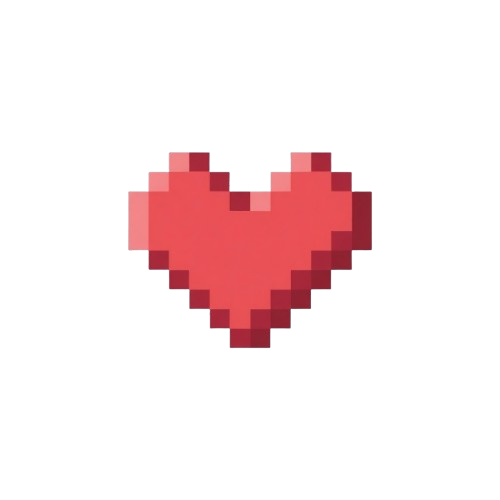
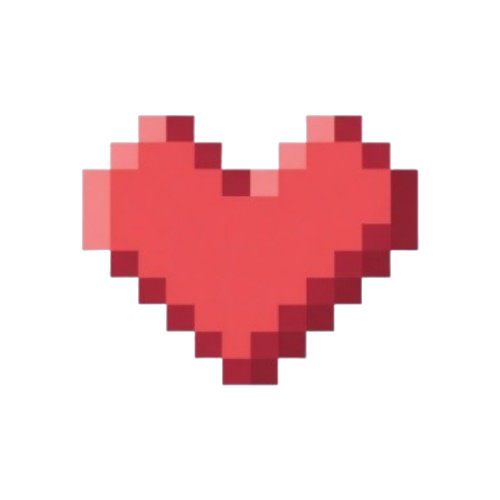
[add] いいねボタンアイコンの変更

Changed region(s): [[0.15, 0.21, 0.84, 0.78]]

diff --git a/front/components/ui/EmptyHeartButton.tsx b/front/components/ui/EmptyHeartButton.tsx
@@ -2,6 +2,6 @@ import Image from "next/image";
 
 export default function EmptyHeartButton() {
   return (
-    <Image src="/icon_images/heart.svg" alt="heart" width={20} height={20} />
+    <Image src="/icon_images/empty_heart.png" alt="heart" width={50} height={50} />
   );
 }
